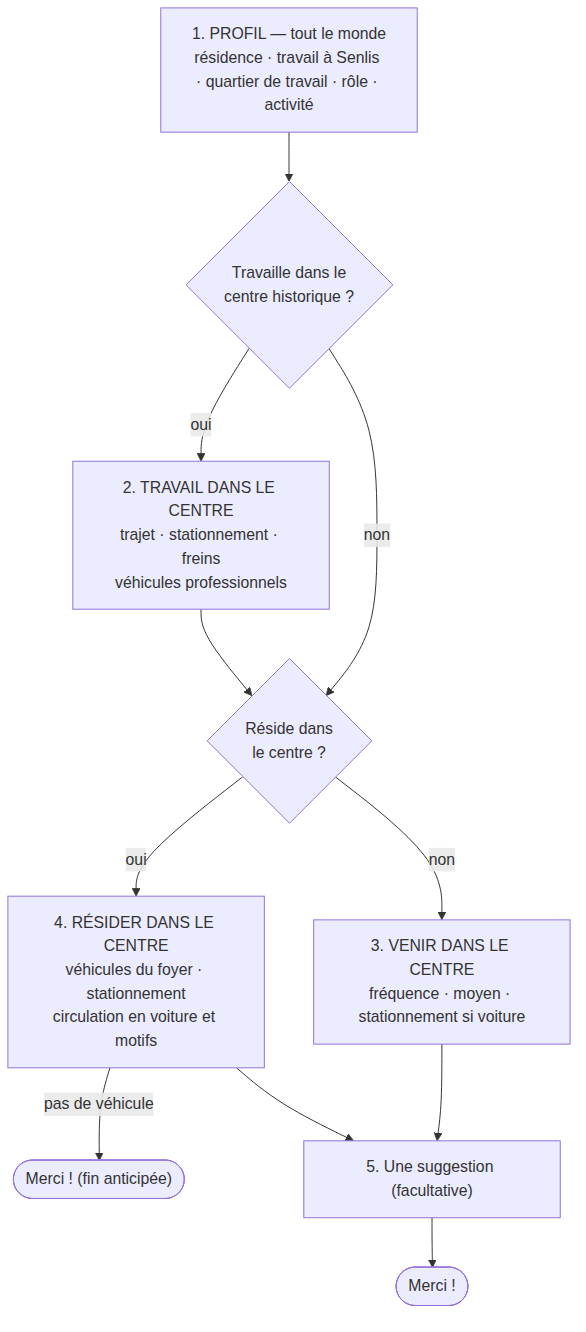
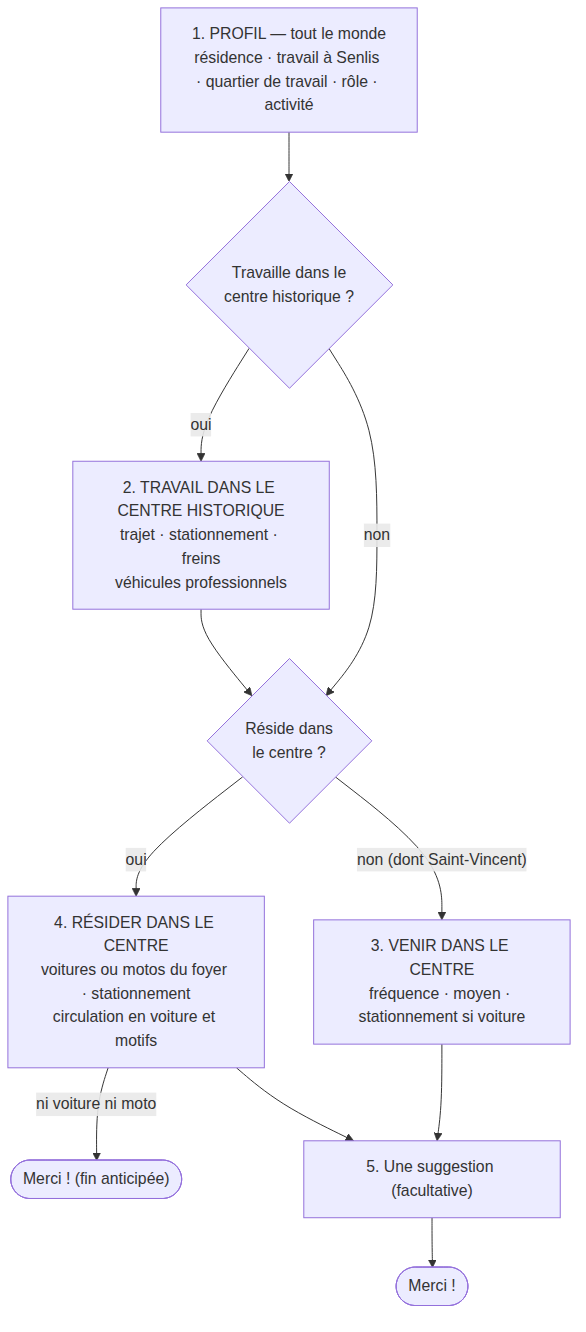
docs: S5R2-03 livrée — enquête stationnement v3.1 (document 25, kanban)

diff --git a/25-enquete-stationnement-v3.md b/25-enquete-stationnement-v3.md
@@ -1,8 +1,10 @@
-# Enquête « Stationnement et déplacements dans le centre historique » — version 3
+# Enquête « Stationnement et déplacements dans le centre historique » — version 3.1
 
-> S5R-06 (03/10/2026), d'après la recette du 30/09/2026 (document `23`). Source de vérité : `api/prisma/surveys/stationnement-v3.js` du dépôt de code ; ce document en est la lecture « métier », à présenter à la mairie.
+> **Version 3.1** — S5R2-03 (13/10/2026), relue en entier pour la présentation à la mairie, d'après la recette du 08/10 (document `29`, § 3.2) et les décisions des 09, 12 et 13/10 (quartiers). Version 3 : S5R-06 (03/10/2026), d'après la recette du 30/09/2026 (document `23`). Source de vérité : `api/prisma/surveys/stationnement-v3.js` du dépôt de code ; ce document en est la lecture « métier », à présenter à la mairie.
 >
-> 39 questions au total, mais **chacun ne voit que celles de sa situation** : de 3 questions (résident·e du centre sans véhicule) à une vingtaine (résident·e du centre qui dirige une activité avec des véhicules professionnels).
+> 39 questions au total, mais **chacun ne voit que celles de sa situation** : de 3 questions (résident·e du Centre historique sans voiture ni moto) à une vingtaine (résident·e du Centre historique qui dirige une activité avec des véhicules professionnels).
+>
+> **Périmètre** : le **Centre historique** seulement, à l'ouest de la rue de la République. Le **Quartier Saint-Vincent**, à l'est, est « un autre quartier de Senlis » : ses habitant·es répondent au bloc « venir dans le centre ».
 >
 > 🎓 **Analogie** : un plan de métro. Toutes les stations existent, mais chaque voyageur ne parcourt que sa ligne.
 
@@ -12,12 +14,12 @@
 flowchart TD
     P["1. PROFIL — tout le monde<br/>résidence · travail à Senlis · quartier de travail · rôle · activité"]
     P --> T{"Travaille dans le<br/>centre historique ?"}
-    T -- oui --> W["2. TRAVAIL DANS LE CENTRE<br/>trajet · stationnement · freins<br/>véhicules professionnels"]
+    T -- oui --> W["2. TRAVAIL DANS LE CENTRE HISTORIQUE<br/>trajet · stationnement · freins<br/>véhicules professionnels"]
     T -- non --> R0{"Réside dans<br/>le centre ?"}
     W --> R0
-    R0 -- non --> V["3. VENIR DANS LE CENTRE<br/>fréquence · moyen · stationnement si voiture"]
-    R0 -- oui --> H["4. RÉSIDER DANS LE CENTRE<br/>véhicules du foyer · stationnement<br/>circulation en voiture et motifs"]
-    H -- "pas de véhicule" --> FIN(["Merci ! (fin anticipée)"])
+    R0 -- "non (dont Saint-Vincent)" --> V["3. VENIR DANS LE CENTRE<br/>fréquence · moyen · stationnement si voiture"]
+    R0 -- oui --> H["4. RÉSIDER DANS LE CENTRE<br/>voitures ou motos du foyer · stationnement<br/>circulation en voiture et motifs"]
+    H -- "ni voiture ni moto" --> FIN(["Merci ! (fin anticipée)"])
     V --> S["5. Une suggestion (facultative)"]
     H --> S
     S --> FIN2(["Merci !"])
@@ -25,7 +27,19 @@ flowchart TD
 
 Le bloc « résider dans le centre » est placé **en dernier** : la réponse « pas de véhicule » y termine l'enquête, sans priver la personne d'aucun bloc qui la concerne (un·e résident·e qui travaille dans le centre a déjà répondu au bloc « travail »).
 
-## 2. Ce qui répond à chaque point de la recette
+## 2. Ce qui change en version 3.1 (recette du 08/10)
+
+| Retour | Réponse dans la v3.1 |
+|---|---|
+| Le centre coupé en deux quartiers (S5R2-06) | Q1 : « Le Centre historique » / « Un autre quartier de Senlis (dont Saint-Vincent) » / « Une autre ville » ; « Quartier Saint-Vincent » en tête des quartiers de résidence (Q2) et parmi les quartiers de travail (Q5) — y travailler n'ouvre pas le bloc « travail dans le centre » |
+| « Bus régional » proposé à tous | Proposé **seulement** aux résident·es d'une autre ville (Q9 et Q23) : option conditionnelle (S5R2-02) |
+| Activités trop détaillées | **6 familles** + « Autre activité » (Q7), avec des exemples en aide sous la question : commerces et boutiques ; services de proximité, agences et santé ; cafés, hôtels et restaurants ; administrations et services publics ; enseignement, culture et social ; bureaux et secteur tertiaire |
+| « Laquelle ? » (autre activité) obligatoire | **Facultative** (Q8) |
+| « Véhicules motorisés » ambigu (un EDPM est motorisé) | « **Voitures ou motos** » (Q30 à Q32) |
+| « Trottinette » | « EDPM (Engins De Déplacement Personnel Motorisés) » (modification de Nath, reprise) |
+| Invitation à transmettre aux salarié·es | Déplacée sous « À ce titre… » (Q6), l'aide de Q7 donnant désormais les exemples |
+
+## 3. Ce qui répond à chaque point de la recette du 30/09 (v3)
 
 | Retour de recette | Réponse dans la v3 |
 |---|---|
@@ -41,19 +55,19 @@ Le bloc « résider dans le centre » est placé **en dernier** : la réponse «
 | Salarié·e d'un autre quartier venant en voiture | Plus de questions sur le stationnement au travail (hors centre) ; à la place, « venez-vous dans le centre ? comment ? » puis le stationnement si en voiture |
 | « Précisez cet autre frein » optionnel | Obligatoire ; et une option « Aucun frein : je préfère la voiture » rend la question des freins honnêtement obligatoire |
 
-## 3. Les 39 questions
+## 4. Les 39 questions
 
 | # | Question | Type | Affichée si… | Règles |
 |---:|---|---|---|---|
 | 1 | Où résidez-vous ? | choix unique | toujours | profil : situation |
-| 2 | Dans quel quartier ? | choix unique | Q1 = « Un autre quartier de Senlis » | profil : quartier |
+| 2 | Dans quel quartier ? | choix unique | Q1 = « Un autre quartier de Senlis (dont Saint-Vincent) » | profil : quartier |
 | 3 | Dans quelle ville ? | texte libre | Q1 = « Une autre ville » |  |
 | 4 | Travaillez-vous ou dirigez-vous une activité à Senlis ? | oui / non | toujours | profil : travailleASenlis |
 | 5 | Dans quel quartier travaillez-vous ? | choix unique | Q4 = « Oui » | profil : travailleQuartier |
 | 6 | À ce titre… | choix unique | Q4 = « Oui » | profil : travailType |
 | 7 | Quel type d'activité (la vôtre, ou celle qui vous emploie) ? | choix unique | Q4 = « Oui » |  |
-| 8 | Laquelle ? | texte libre | Q7 = « Autre activité » |  |
-| 9 | Comment venez-vous travailler le plus souvent ? | choix unique | Q5 = « Centre historique » |  |
+| 8 | Laquelle ? | texte libre (facultative) | Q7 = « Autre activité » |  |
+| 9 | Comment venez-vous travailler le plus souvent ? | choix unique | Q5 = « Centre historique » | « Bus régional » proposé seulement si Q1 = « Une autre ville » |
 | 10 | Quel autre mode de transport ? | texte libre | Q9 = « Autre » |  |
 | 11 | Le véhicule de covoiturage se gare-t-il dans le centre historique ? | oui / non | Q9 = « Covoiturage » |  |
 | 12 | Où garez-vous ce véhicule pendant votre travail ? | choix unique | Q9 = « Voiture » **ou** Q11 = « Oui » |  |
@@ -66,27 +80,30 @@ Le bloc « résider dans le centre » est placé **en dernier** : la réponse «
 | 19 | Où sont garés ces véhicules professionnels ? | choix multiple | Q17 = « Oui » | ≤ réponse à Q18 cases |
 | 20 | Rencontrez-vous des difficultés pour garer ces véhicules professionnels ? | oui / non | Q17 = « Oui » |  |
 | 21 | Lesquelles ? | texte libre | Q20 = « Oui » |  |
-| 22 | En dehors de votre éventuel travail, à quelle fréquence venez-vous dans le centre historique ? | choix unique | Q1 = « Un autre quartier de Senlis » **ou** Q1 = « Une autre ville » |  |
-| 23 | Le plus souvent, comment venez-vous dans le centre historique ? | choix unique | Q22 = « Tous les jours » **ou** Q22 = « Plusieurs fois par semaine » **ou** Q22 = « Occasionnellement » |  |
+| 22 | En dehors de votre éventuel travail, à quelle fréquence venez-vous dans le centre historique ? | choix unique | Q1 = « Un autre quartier de Senlis (dont Saint-Vincent) » **ou** Q1 = « Une autre ville » |  |
+| 23 | Le plus souvent, comment venez-vous dans le centre historique ? | choix unique | Q22 = « Tous les jours » **ou** Q22 = « Plusieurs fois par semaine » **ou** Q22 = « Occasionnellement » | « Bus régional » proposé seulement si Q1 = « Une autre ville » |
 | 24 | Quel autre mode de transport ? | texte libre | Q23 = « Autre » |  |
 | 25 | Où vous garez-vous le plus souvent ? | choix unique | Q23 = « Voiture » |  |
 | 26 | Rencontrez-vous des difficultés pour vous garer ? | oui / non | Q23 = « Voiture » |  |
 | 27 | Lesquelles ? | texte libre | Q26 = « Oui » |  |
 | 28 | Quels freins vous empêchent de venir sans voiture ? | choix multiple | Q23 = « Voiture » |  |
 | 29 | Précisez cet autre frein | texte libre | Q28 = « Autre frein » |  |
-| 30 | Votre foyer possède-t-il un ou plusieurs véhicules motorisés ? | oui / non | Q1 = « Le centre historique » | « Non » termine l’enquête |
-| 31 | Combien de véhicules motorisés compte votre foyer ? | nombre | Q30 = « Oui » | min 1 |
-| 32 | Où sont garés vos véhicules ? | choix multiple | Q30 = « Oui » | ≤ réponse à Q31 cases |
+| 30 | Votre foyer possède-t-il une ou plusieurs voitures ou motos ? | oui / non | Q1 = « Le Centre historique » | « Non » termine l’enquête |
+| 31 | Combien de voitures ou motos compte votre foyer ? | nombre | Q30 = « Oui » | min 1 |
+| 32 | Où sont garées vos voitures ou motos ? | choix multiple | Q30 = « Oui » | ≤ réponse à Q31 cases |
 | 33 | Rencontrez-vous des difficultés pour vous garer ? | oui / non | Q30 = « Oui » |  |
 | 34 | Lesquelles ? | texte libre | Q33 = « Oui » |  |
 | 35 | Vous arrive-t-il de circuler en voiture dans le centre historique ? | oui / non | Q30 = « Oui » |  |
 | 36 | Pour quelle(s) raison(s) ? | choix multiple | Q35 = « Oui » |  |
 | 37 | Lequel ? | texte libre | Q36 = « Autre motif » |  |
 | 38 | À quelle fréquence circulez-vous en voiture dans le centre historique ? | choix unique | Q35 = « Oui » |  |
-| 39 | Une suggestion pour le stationnement ou les déplacements dans le centre historique ? | texte libre (optionnelle) | toujours |  |
+| 39 | Une suggestion pour le stationnement ou les déplacements dans le centre historique ? | texte libre (facultative) | toujours |  |
 
-## 4. Mise en place
+Tableau produit à partir de `stationnement-v3.js` (il ne peut pas en diverger).
+
+## 5. Mise en place
 
 - **Production** : `npm run seed:prod` crée cette enquête (ouverte) si aucune enquête ne porte déjà son identifiant (`stationnement-deplacements-centre-historique`).
-- **Développement** : l'ancienne version (v2) reste en base avec ses réponses de test ; la v3 est ajoutée à côté. Clore la v2 depuis l'administration pour ne garder que la v3 ouverte.
+- **Remplacer la v3 par la v3.1** (même identifiant) : `npm run seed:prod -- --remplacer`. En développement, l'ancienne version et ses réponses de test sont supprimées ; **en production, refusé dès qu'il existe une vraie réponse** (on n'efface jamais la parole des habitant·es : on clôt l'enquête et on en crée une nouvelle).
+- **Développement** : l'ancienne version v2 (autre identifiant) peut rester en base, close.
 - **Limite connue du moteur** : pas de « ET » entre deux conditions. Chaque bloc est donc déclenché par une seule question précise (le quartier de travail « Centre historique », la résidence « autre quartier » ou « autre ville »…).

diff --git a/16-kanban-issues-complet.md b/16-kanban-issues-complet.md
@@ -46,6 +46,8 @@
 >
 > **S5R2-06 livrée** (12/10/2026) : quartier `SAINT_VINCENT` (migration `saint_vincent`, liste commune `api/src/lib/quartiers.js`) accepté partout — profil, zone d'une proposition, public visé, synchronisation ; « un autre quartier de Senlis (dont Saint-Vincent) » ; profils existants inchangés. Les contours sont désormais repérés par **quartier** (`properties.quartier`, `quartierOfFeature`) et non plus par code IRIS (deux quartiers partagent celui du centre). Outil `/admin/quartiers` : plan municipal en surimpression (image locale, transparence, calage), tracé au clic ou au clavier, découpage exact avec `polygon-clipping` (Saint-Vincent = centre INSEE ∩ tracé, Centre historique = centre − tracé ; débordement ignoré et mesuré — précision du 12/10), téléchargement du nouveau `iris-senlis.geojson` à placer dans le dépôt. **Contours publiés le 13/10** : la limite entre les deux quartiers est la **rue de la République** (indication de Nath) — fichier `iris-senlis.geojson` calculé le long de la rue (précision de quelques mètres), sans tracé à la main ; l'outil reste disponible pour un recalage, ou pour les contours officiels du service SIG. Au passage : les boutons désactivés se voient enfin désactivés (tout le site).
 >
+> **S5R2-03 livrée** (13/10/2026) : enquête stationnement **v3.1** (même fichier `stationnement-v3.js`, même slug) — périmètre Centre historique, Saint-Vincent « autre quartier » (Q1, Q2, Q5), « Bus régional » proposé seulement aux résident·es d'une autre ville (option conditionnelle, Q9 et Q23), activités en 6 familles + « Autre » avec exemples en aide, « Laquelle ? » facultative, « voitures ou motos », invitation aux salarié·es déplacée sous « À ce titre… » ; `npm run seed:prod -- --remplacer` (refusé en production s'il existe une vraie réponse) ; document `25` mis à jour (tableau des 39 questions régénéré depuis le code).
+>
 > **Légende** : ✅ livré (mergé sur `dev`) · 🔶 partiellement livré · sans marque = à faire.
 >
 > **Gabarit d'issue** (à enregistrer comme template GitHub) : *Contexte* (lien cahier des charges) · *Critères d'acceptation* (cases à cocher) · *Definition of Done rappelée*.
@@ -210,7 +212,7 @@
 | **S5R2-13** | **`feat(client): sauvegarde automatique des saisies en cours — l'enquête ou la proposition en cours de création ou de modification (admin, Admin-test) et les réponses déjà données à une enquête (citoyen, retour en arrière conservé) sont gardées dans le navigateur ; « Reprendre » ou « Repartir de zéro » au retour ; effacées après l'envoi, à la déconnexion et au bout de 7 jours ; jamais en mode test ; politique de confidentialité et registre mis à jour`** ✅ | **`lot:1` `type:feature` `zone:client` `rgpd`** | **`feat/autosave-drafts`** | **1 j** | **J90** |
 | **S5R2-02** | **`feat(api+bdd+client): options conditionnelles — une option n'apparaît que si l'une de certaines réponses précédentes a été choisie (OU) ; API, moteur navigateur, constructeur`** ✅ | **`lot:1` `type:feature` `zone:api` `zone:bdd` `zone:client`** | **`feat/conditional-options`** | **1,5 j** | **J91–J92** |
 | **S5R2-06** | **`feat(api+bdd+client): le centre en deux quartiers — « Centre historique » (ex-Centre-Sud du plan 2018) et « Quartier Saint-Vincent » (ex-Centre-Est – Saint-Vincent) ; contours tracés avec un outil admin d'après le plan municipal ; couleurs et autres quartiers inchangés`** ✅ | **`lot:1` `type:feature` `zone:api` `zone:bdd` `zone:client`** | **`feat/centre-saint-vincent`** | **2 j** | **J92–J94** |
-| **S5R2-03** | **`feat(data): enquête stationnement v3.1 — relecture complète pour la présentation à la mairie ; EDPM, activités en 6 familles + « Autre » → « Laquelle ? » facultative, « voitures ou motos », bus régional pour les résidents d'une autre ville (option conditionnelle), Saint-Vincent hors du périmètre ; seed --remplacer (dev)`** | **`lot:1` `type:feature` `zone:api`** | **`feat/parking-survey-v3-1`** | **1 j** | **J94–J95** |
+| **S5R2-03** | **`feat(data): enquête stationnement v3.1 — relecture complète pour la présentation à la mairie ; EDPM, activités en 6 familles + « Autre » → « Laquelle ? » facultative, « voitures ou motos », bus régional pour les résidents d'une autre ville (option conditionnelle), Saint-Vincent hors du périmètre ; seed --remplacer (dev)`** ✅ | **`lot:1` `type:feature` `zone:api`** | **`feat/parking-survey-v3-1`** | **1 j** | **J94–J95** |
 | **S5R2-04** | **`feat(client): résultats d'enquête avec Chart.js (barres, secteurs) — chargé seulement sur la page des résultats, nombres en texte conservés à côté (accessibilité)`** | **`lot:1` `type:feature` `zone:client`** | **`feat/results-chartjs`** | **1 j** | **J95–J96** |
 | **S5R2-05** | **`feat(api+bdd+client): parkings gérés par l'administration — table Parking (nom, places, régime : gratuit / zone rouge / zone verte / gare / durée limitée, recharge existante ou en projet, PMR), écran admin avec placement sur la carte ; données initiales croisant le plan 2023 (noms, places) et le guide Indigo 2025 (zones, tarifs) ; légende des tarifs 2025 ; couche OpenStreetMap retirée`** | **`lot:1` `type:feature` `zone:api` `zone:bdd` `zone:client`** | **`feat/managed-parkings`** | **3 j** | **J96–J99** |
 | **S5R-13** | **`docs: audit complété NIST (SP 800-63B, CSF 2.0) + procédure de mise à jour des quartiers et des parkings`** *(reportée de S5R)* | **`lot:1` `type:docs`** | **`docs/nist-iris-procedure`** | **0,5 j** | **J99** |
